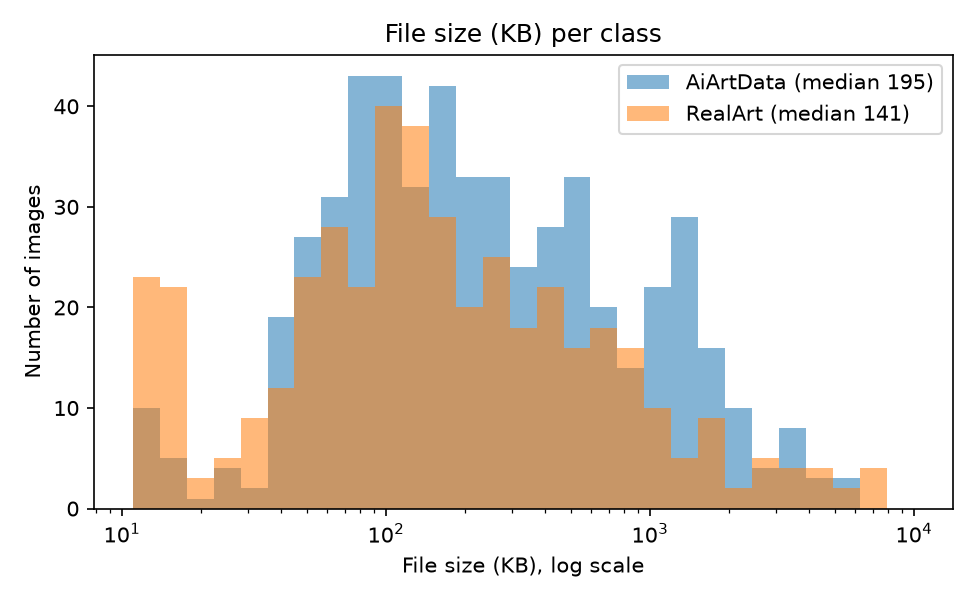
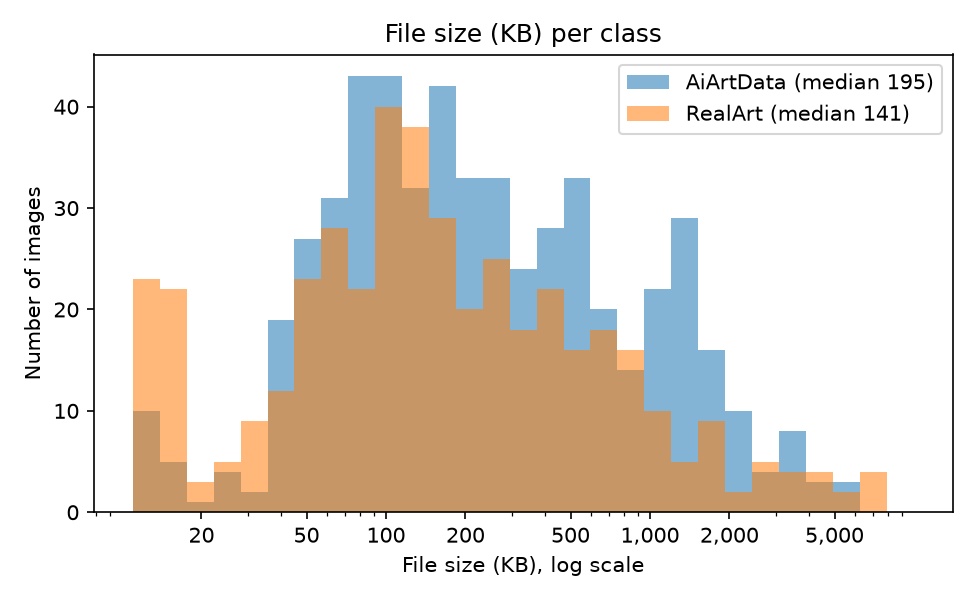
Fix log-axis tick labels in EDA

diff --git a/scripts/eda.py b/scripts/eda.py
@@ -2,6 +2,7 @@
 from pathlib import Path
 
 import matplotlib.pyplot as plt
+from matplotlib.ticker import NullFormatter
 import numpy as np
 import pandas as pd
 from PIL import Image, ImageOps
@@ -44,6 +45,11 @@ def histograms(df):
             ax.hist(g[col], bins=bins, alpha=0.55,
                     label=f"{cls} (median {g[col].median():.0f})")
         ax.set_xscale("log")
+        ticks = [t for t in (10, 20, 50, 100, 200, 500, 1000, 2000, 5000)
+                 if bins[0] <= t <= bins[-1]]
+        ax.set_xticks(ticks)
+        ax.set_xticklabels([f"{t:,}" for t in ticks])
+        ax.xaxis.set_minor_formatter(NullFormatter())
         ax.set_xlabel(label + ", log scale")
         ax.set_ylabel("Number of images")
         ax.set_title(f"{label} per class")
